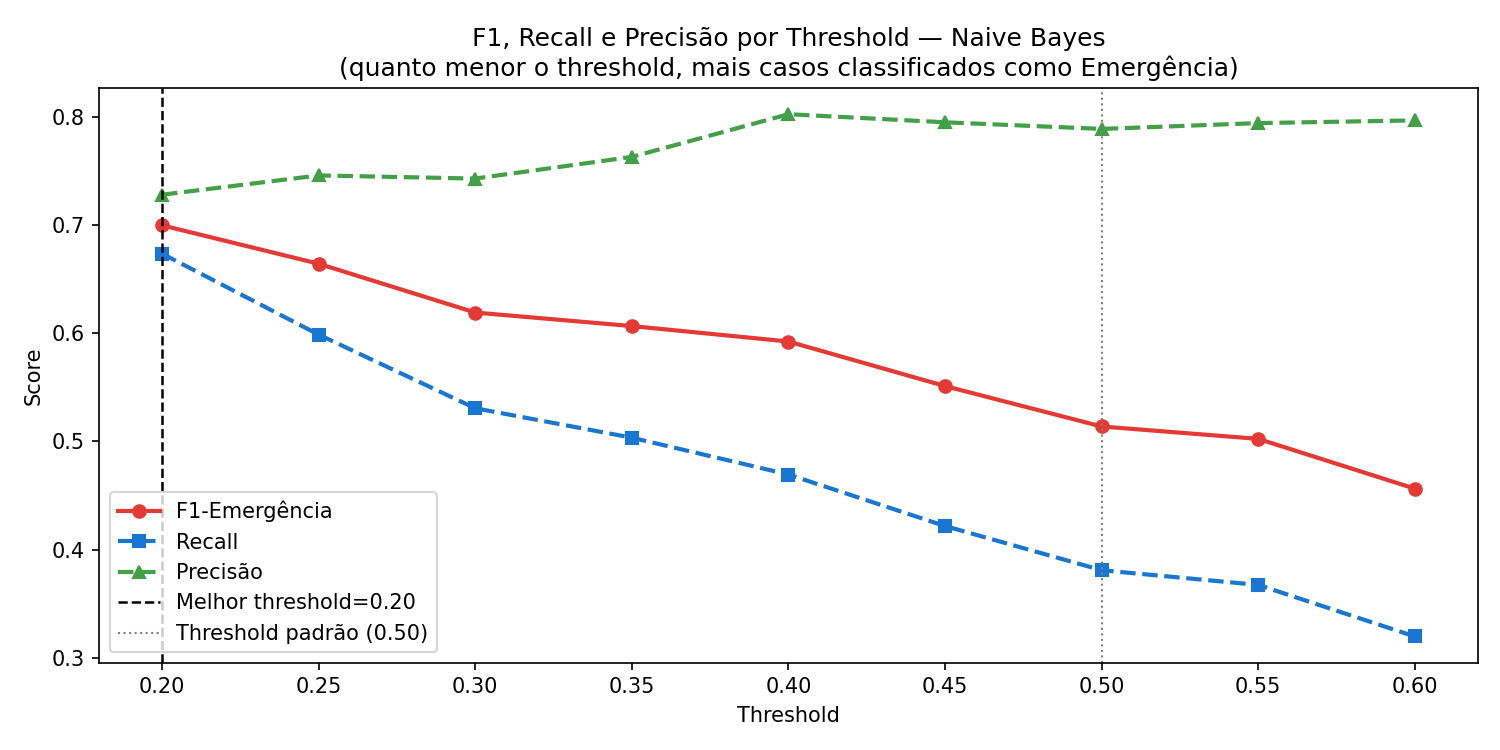
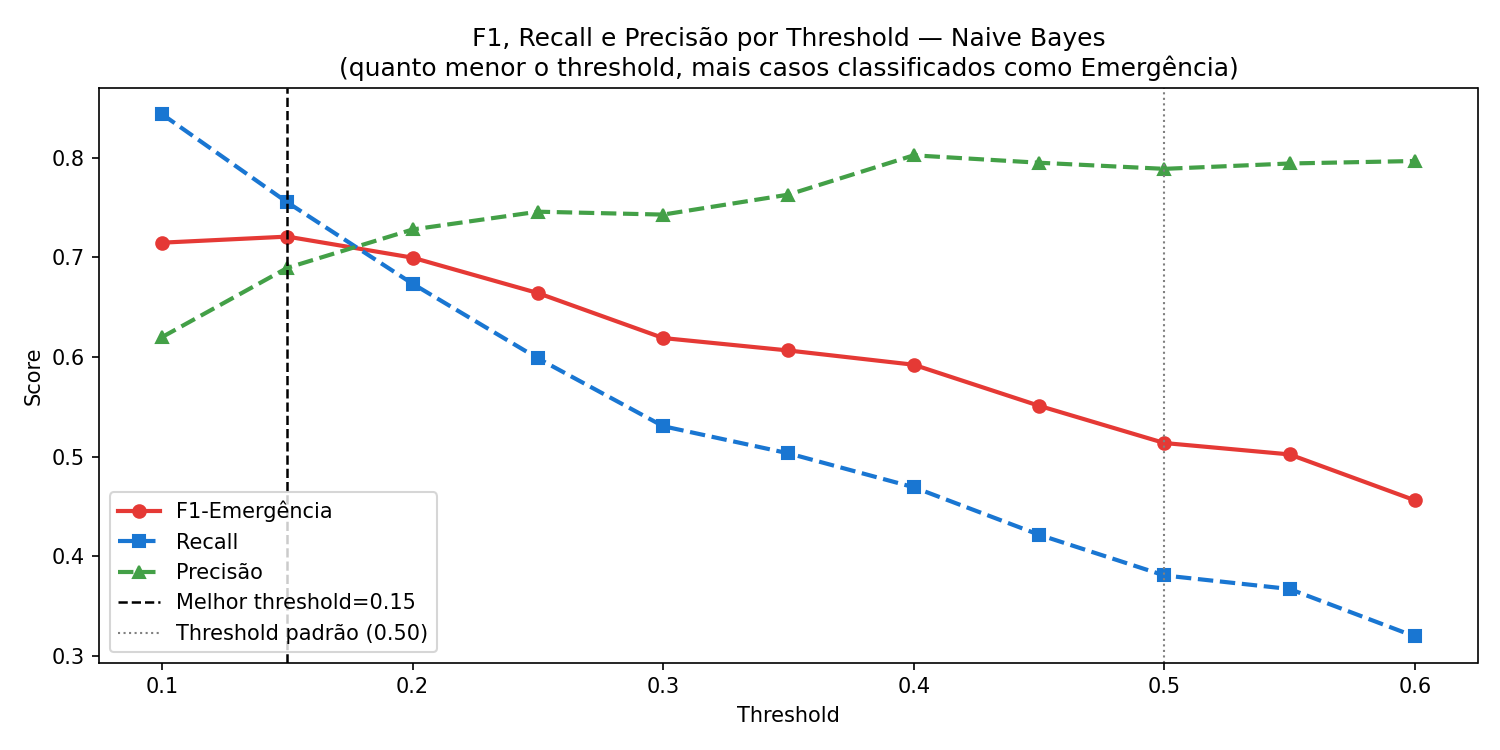
alteração do threshold (0.15)

diff --git a/scripts/nb_busca_melhor_tr.py b/scripts/nb_busca_melhor_tr.py
@@ -21,17 +21,17 @@ warnings.filterwarnings("ignore")
 # ──────────────────────────────────────────────────────────────
 # CONFIGURAÇÃO
 # ──────────────────────────────────────────────────────────────
-TRAIN_PATH    = "data/data_split/train_normalized.csv"
-TEST_PATH     = "data/data_split/test_normalized.csv"
+TRAIN_PATH = "data/data_split/train_normalized.csv"
+TEST_PATH = "data/data_split/test_normalized.csv"
 TARGET_COLUMN = "KTAS_target_binario"
-OUTPUT_DIR    = "resultados/nb"
+OUTPUT_DIR = "resultados/nb"
 
 FEATURES = [
     "Sex", "Age", "Injury", "Mental", "Pain", "NRS_pain",
     "SBP", "DBP", "HR", "RR", "BT", "Saturation"
 ]
 
-THRESHOLDS = np.arange(0.20, 0.61, 0.05)
+THRESHOLDS = np.arange(0.10, 0.61, 0.05)
 
 def carregar_dados():
     for path in [TRAIN_PATH, TEST_PATH]:

diff --git a/scripts/nb_treino.py b/scripts/nb_treino.py
@@ -63,7 +63,7 @@ def treinar_e_avaliar(X_train, y_train, X_test, y_test):
     modelo.fit(X_train, y_train)
 
     y_prob = modelo.predict_proba(X_test)[:, 1]
-    y_pred = (y_prob >= 0.20).astype(int)
+    y_pred = (y_prob >= 0.15).astype(int)
 
     # ── Métricas principais ────────────────────────────────────
     acc_treino = accuracy_score(y_train, modelo.predict(X_train))